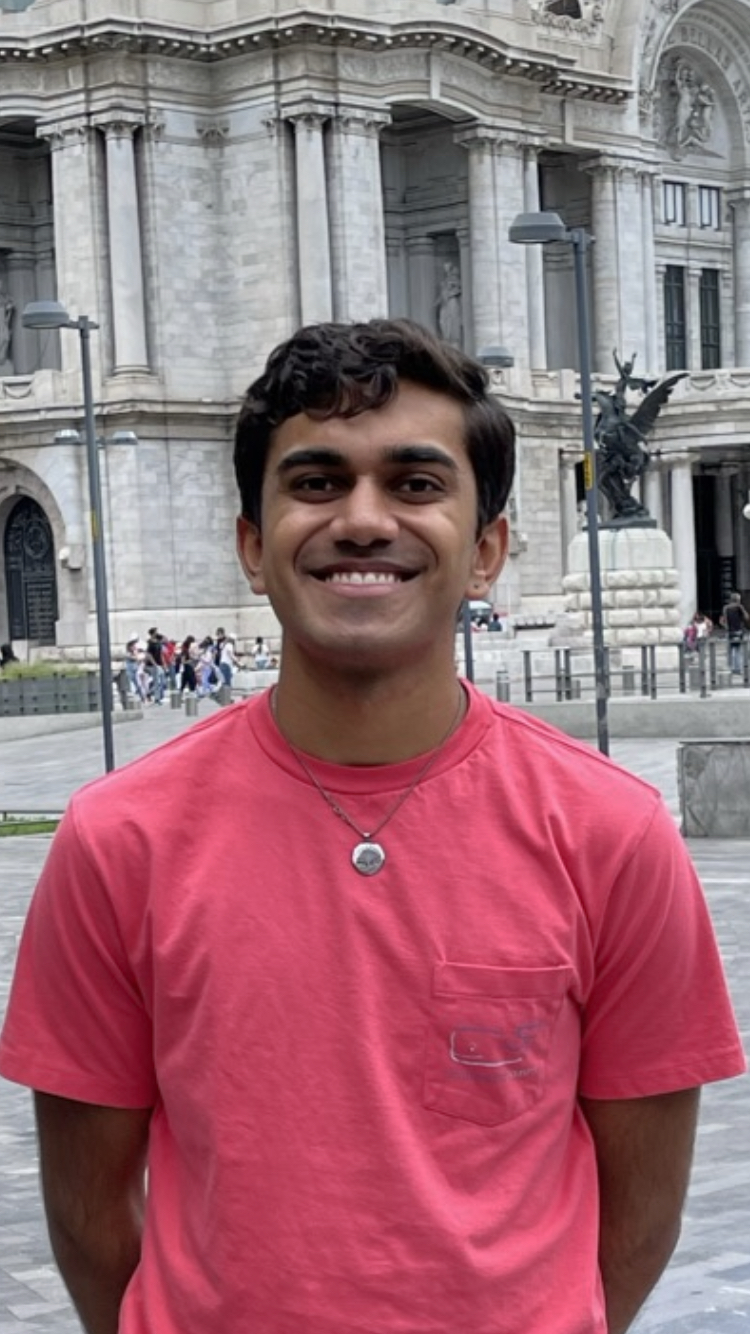
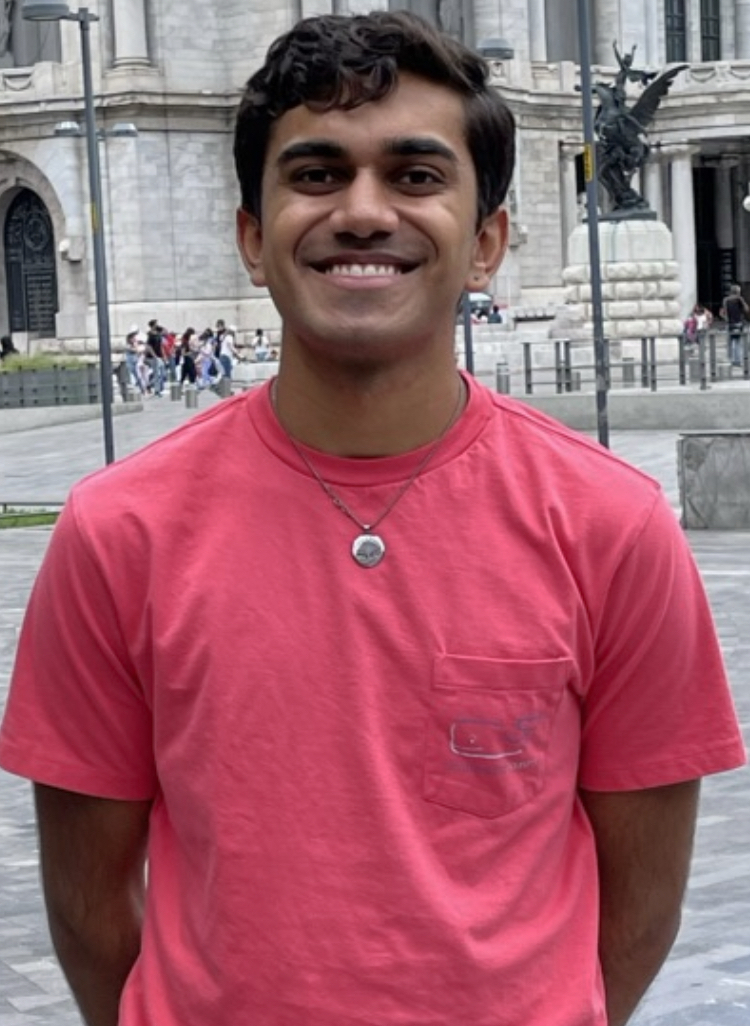
side by side about

diff --git a/index.html b/index.html
@@ -33,6 +33,22 @@ body,h1,h2,h3,h4,h5,h6 {font-family: "Karma", sans-serif}
 <!-- !PAGE CONTENT! -->
 <div class="w3-main w3-content w3-padding" style="max-width:1200px;margin-top:100px">
 
+  <hr id="about">
+
+  <!-- About Section -->
+  <div class="w3-container w3-padding-32 w3-center">  
+    <h3>About Me</h3><br>
+    <img src="headshot.jpeg" alt="Me" class="w3-image" style="width:100%">
+    <div class="w3-padding-32">
+      <h4><i><b>Hi! I'm Andre Dang.</i></b></h4>
+      <p>
+        I'm (he/him) a programmer and a general creative spirit who enjoys dabbling in a few different mediums! I’m an undergraduate at the University of Chicago studying Computer Science and Media Arts & Design. As part of doing Media Arts & Design, I've explored ways to leverage my technical background into creating art. I’ve worked on augmented reality projects, internet art, and a mini-movie using 3D-modeled characters. I enjoy working on different kinds of projects like these as a way to express myself, and my most recent interest has been to venture into the world of game design. When I'm not programming, you can catch me at one of my improv performances, rock climbing, or generally frolicking. Feel free to shoot me an email at mylastname concatenated with “an” @uchicago.edu.
+        </p>
+    </div>
+  </div>
+  <hr>
+
+  <hr id="work">
   <!-- First Photo Grid-->
   <div class="w3-row-padding w3-padding-16 w3-center" id="food">
     <div class="w3-quarter">
@@ -81,6 +97,7 @@ body,h1,h2,h3,h4,h5,h6 {font-family: "Karma", sans-serif}
       <p>Lorem lorem lorem lorem ipsum text praesent tincidunt ipsum lipsum.</p>
     </div>
   </div>
+  <hr>
 
   <!-- Pagination -->
   <!-- <div class="w3-center w3-padding-32">
@@ -93,21 +110,6 @@ body,h1,h2,h3,h4,h5,h6 {font-family: "Karma", sans-serif}
       <a href="#" class="w3-bar-item w3-button w3-hover-black">»</a>
     </div>
   </div> -->
-  
-  <hr id="about">
-
-  <!-- About Section -->
-  <div class="w3-container w3-padding-32 w3-center">  
-    <h3>About Me</h3><br>
-    <img src="headshot.jpeg" alt="Me" class="w3-image" style="display:block;margin:auto" width="400" height="266">
-    <div class="w3-padding-32">
-      <h4><i><b>Hi! I'm Andre Dang.</i></b></h4>
-      <p>
-        I'm (he/him) a programmer and a general creative spirit who enjoys dabbling in a few different mediums! I’m an undergraduate at the University of Chicago studying Computer Science and Media Arts & Design. As part of doing Media Arts & Design, I've explored ways to leverage my technical background into creating art. I’ve worked on augmented reality projects, internet art, and a mini-movie using 3D-modeled characters. I enjoy working on different kinds of projects like these as a way to express myself, and my most recent interest has been to venture into the world of game design. When I'm not programming, you can catch me at one of my improv performances, rock climbing, or generally frolicking. Feel free to shoot me an email at mylastname concatenated with “an” @uchicago.edu.
-        </p>
-    </div>
-  </div>
-  <hr>
   
   <!-- Footer -->
   <!-- <footer class="w3-row-padding w3-padding-32">
